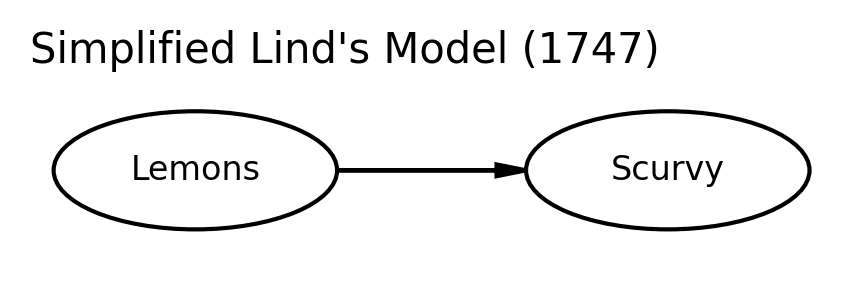
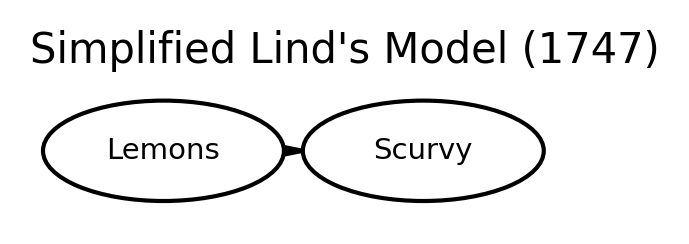
"fINAL"

diff --git a/index.html b/index.html
@@ -204,7 +204,7 @@ Ready to create beautiful DAGs!</code></pre>
 <p><strong>Historical Context:</strong> In 1747, James Lind discovered that lemons prevent scurvy through a controlled experiment. However, the understanding was incomplete - they knew lemons worked but not why.</p>
 <p><strong>Your Task:</strong> Recreate this DAG showing the relationship between lemons and scurvy prevention.</p>
 <p><strong>Reference Image:</strong> <img src="https://raw.githubusercontent.com/flyaflya/persuasive/642288ea5f79050c05801c3d127084ac0f361a01/images/scurvy2.png" class="img-fluid"></p>
-<div id="665541dc" class="cell" data-execution_count="2">
+<div id="cell-dag-1-1747" class="cell" data-dpi="150" data-fig-height="1.25" data-fig-width="3" data-execution_count="2">
 <div class="code-copy-outer-scaffold"><div class="sourceCode cell-code" id="cb3"><pre class="sourceCode python code-with-copy"><code class="sourceCode python"><span id="cb3-1"><a href="#cb3-1" aria-hidden="true" tabindex="-1"></a><span class="im">import</span> daft</span>
 <span id="cb3-2"><a href="#cb3-2" aria-hidden="true" tabindex="-1"></a><span class="im">import</span> matplotlib.pyplot <span class="im">as</span> plt</span>
 <span id="cb3-3"><a href="#cb3-3" aria-hidden="true" tabindex="-1"></a></span>
@@ -218,8 +218,8 @@ Ready to create beautiful DAGs!</code></pre>
 <span id="cb3-11"><a href="#cb3-11" aria-hidden="true" tabindex="-1"></a>}</span>
 <span id="cb3-12"><a href="#cb3-12" aria-hidden="true" tabindex="-1"></a></span>
 <span id="cb3-13"><a href="#cb3-13" aria-hidden="true" tabindex="-1"></a><span class="co"># Node positions chosen to reproduce the spacing in the reference</span></span>
-<span id="cb3-14"><a href="#cb3-14" aria-hidden="true" tabindex="-1"></a>pgm.add_node(<span class="st">"Lemons"</span>, <span class="st">"Lemons"</span>, <span class="fl">1.0</span>, <span class="fl">1.0</span>, aspect<span class="op">=</span><span class="fl">2.4</span>, scale<span class="op">=</span><span class="fl">1.0</span>, fontsize<span class="op">=</span><span class="dv">8</span>, plot_params<span class="op">=</span>node_style)</span>
-<span id="cb3-15"><a href="#cb3-15" aria-hidden="true" tabindex="-1"></a>pgm.add_node(<span class="st">"Scurvy"</span>, <span class="st">"Scurvy"</span>, <span class="fl">3.0</span>, <span class="fl">1.0</span>, aspect<span class="op">=</span><span class="fl">2.4</span>, scale<span class="op">=</span><span class="fl">1.0</span>, fontsize<span class="op">=</span><span class="dv">8</span>, plot_params<span class="op">=</span>node_style)</span>
+<span id="cb3-14"><a href="#cb3-14" aria-hidden="true" tabindex="-1"></a>pgm.add_node(<span class="st">"Lemons"</span>, <span class="st">"Lemons"</span>, <span class="fl">1.0</span>, <span class="fl">1.0</span>, aspect<span class="op">=</span><span class="fl">2.6</span>, scale<span class="op">=</span><span class="fl">1.0</span>, fontsize<span class="op">=</span><span class="dv">10</span>, plot_params<span class="op">=</span>node_style)</span>
+<span id="cb3-15"><a href="#cb3-15" aria-hidden="true" tabindex="-1"></a>pgm.add_node(<span class="st">"Scurvy"</span>, <span class="st">"Scurvy"</span>, <span class="fl">3.25</span>, <span class="fl">1.0</span>, aspect<span class="op">=</span><span class="fl">2.6</span>, scale<span class="op">=</span><span class="fl">1.0</span>, fontsize<span class="op">=</span><span class="dv">10</span>, plot_params<span class="op">=</span>node_style)</span>
 <span id="cb3-16"><a href="#cb3-16" aria-hidden="true" tabindex="-1"></a></span>
 <span id="cb3-17"><a href="#cb3-17" aria-hidden="true" tabindex="-1"></a>pgm.add_edge(<span class="st">"Lemons"</span>, <span class="st">"Scurvy"</span>, plot_params<span class="op">=</span>{<span class="st">"linewidth"</span>: <span class="fl">1.0</span>, <span class="st">"color"</span>: <span class="st">"black"</span>})</span>
 <span id="cb3-18"><a href="#cb3-18" aria-hidden="true" tabindex="-1"></a></span>
@@ -227,13 +227,13 @@ Ready to create beautiful DAGs!</code></pre>
 <span id="cb3-20"><a href="#cb3-20" aria-hidden="true" tabindex="-1"></a>plt.title(<span class="st">"Simplified Lind's Model (1747)"</span>, loc<span class="op">=</span><span class="st">"left"</span>, fontsize<span class="op">=</span><span class="dv">10</span>)</span>
 <span id="cb3-21"><a href="#cb3-21" aria-hidden="true" tabindex="-1"></a>plt.tight_layout(pad<span class="op">=</span><span class="fl">0.1</span>)</span></code></pre></div><button title="Copy to Clipboard" class="code-copy-button"><i class="bi"></i></button></div>
 <div class="cell-output cell-output-stderr">
-<pre><code>/var/folders/9q/bp_9w0gj1h9cbhl6hpfpgh5r0000gn/T/ipykernel_11985/1233557707.py:21: UserWarning: This figure includes Axes that are not compatible with tight_layout, so results might be incorrect.
+<pre><code>/var/folders/9q/bp_9w0gj1h9cbhl6hpfpgh5r0000gn/T/ipykernel_12520/1311228903.py:21: UserWarning: This figure includes Axes that are not compatible with tight_layout, so results might be incorrect.
   plt.tight_layout(pad=0.1)</code></pre>
 </div>
 <div class="cell-output cell-output-display">
 <div>
 <figure class="figure">
-<p><img src="index_files/figure-html/cell-3-output-2.png" width="431" height="141" class="figure-img"></p>
+<p><img src="index_files/figure-html/dag-1-1747-output-2.png" id="dag-1-1747" width="472" height="141" class="figure-img"></p>
 </figure>
 </div>
 </div>
@@ -285,7 +285,7 @@ Ready to create beautiful DAGs!</code></pre>
 <span id="cb5-38"><a href="#cb5-38" aria-hidden="true" tabindex="-1"></a>plt.title(<span class="st">"Updated Bacterial Theory (Late 19th Century)"</span>, fontsize<span class="op">=</span><span class="dv">10</span>)</span>
 <span id="cb5-39"><a href="#cb5-39" aria-hidden="true" tabindex="-1"></a>plt.tight_layout()</span></code></pre></div><button title="Copy to Clipboard" class="code-copy-button"><i class="bi"></i></button></div>
 <div class="cell-output cell-output-stderr">
-<pre><code>/var/folders/9q/bp_9w0gj1h9cbhl6hpfpgh5r0000gn/T/ipykernel_11985/68004821.py:39: UserWarning: This figure includes Axes that are not compatible with tight_layout, so results might be incorrect.
+<pre><code>/var/folders/9q/bp_9w0gj1h9cbhl6hpfpgh5r0000gn/T/ipykernel_12520/68004821.py:39: UserWarning: This figure includes Axes that are not compatible with tight_layout, so results might be incorrect.
   plt.tight_layout()</code></pre>
 </div>
 <div class="cell-output cell-output-display">
@@ -341,7 +341,7 @@ Ready to create beautiful DAGs!</code></pre>
 <span id="cb7-36"><a href="#cb7-36" aria-hidden="true" tabindex="-1"></a>plt.title(<span class="st">"Simplified Modern Understanding (1930s onwards)"</span>, fontsize<span class="op">=</span><span class="dv">10</span>)</span>
 <span id="cb7-37"><a href="#cb7-37" aria-hidden="true" tabindex="-1"></a>plt.tight_layout()</span></code></pre></div><button title="Copy to Clipboard" class="code-copy-button"><i class="bi"></i></button></div>
 <div class="cell-output cell-output-stderr">
-<pre><code>/var/folders/9q/bp_9w0gj1h9cbhl6hpfpgh5r0000gn/T/ipykernel_11985/2623652886.py:37: UserWarning: This figure includes Axes that are not compatible with tight_layout, so results might be incorrect.
+<pre><code>/var/folders/9q/bp_9w0gj1h9cbhl6hpfpgh5r0000gn/T/ipykernel_12520/2623652886.py:37: UserWarning: This figure includes Axes that are not compatible with tight_layout, so results might be incorrect.
   plt.tight_layout()</code></pre>
 </div>
 <div class="cell-output cell-output-display">
@@ -391,7 +391,7 @@ Ready to create beautiful DAGs!</code></pre>
 <section id="example-simplified-modern-understanding-dag" class="level3">
 <h3 class="anchored" data-anchor-id="example-simplified-modern-understanding-dag">Example: Simplified Modern Understanding DAG</h3>
 <p>Here’s an example (see <strong>?@fig-example-node</strong>) that matches the simplified Vitamin C → Collagen Synthesis → Scurvy diagram:</p>
-<div id="ea9dc6f7" class="cell" data-execution_count="5">
+<div id="6ae88662" class="cell" data-execution_count="5">
 <div class="code-copy-outer-scaffold"><div class="sourceCode cell-code" id="cb9"><pre class="sourceCode python code-with-copy"><code class="sourceCode python"><span id="cb9-1"><a href="#cb9-1" aria-hidden="true" tabindex="-1"></a><span class="im">import</span> daft</span>
 <span id="cb9-2"><a href="#cb9-2" aria-hidden="true" tabindex="-1"></a><span class="im">import</span> matplotlib.pyplot <span class="im">as</span> plt</span>
 <span id="cb9-3"><a href="#cb9-3" aria-hidden="true" tabindex="-1"></a></span>
